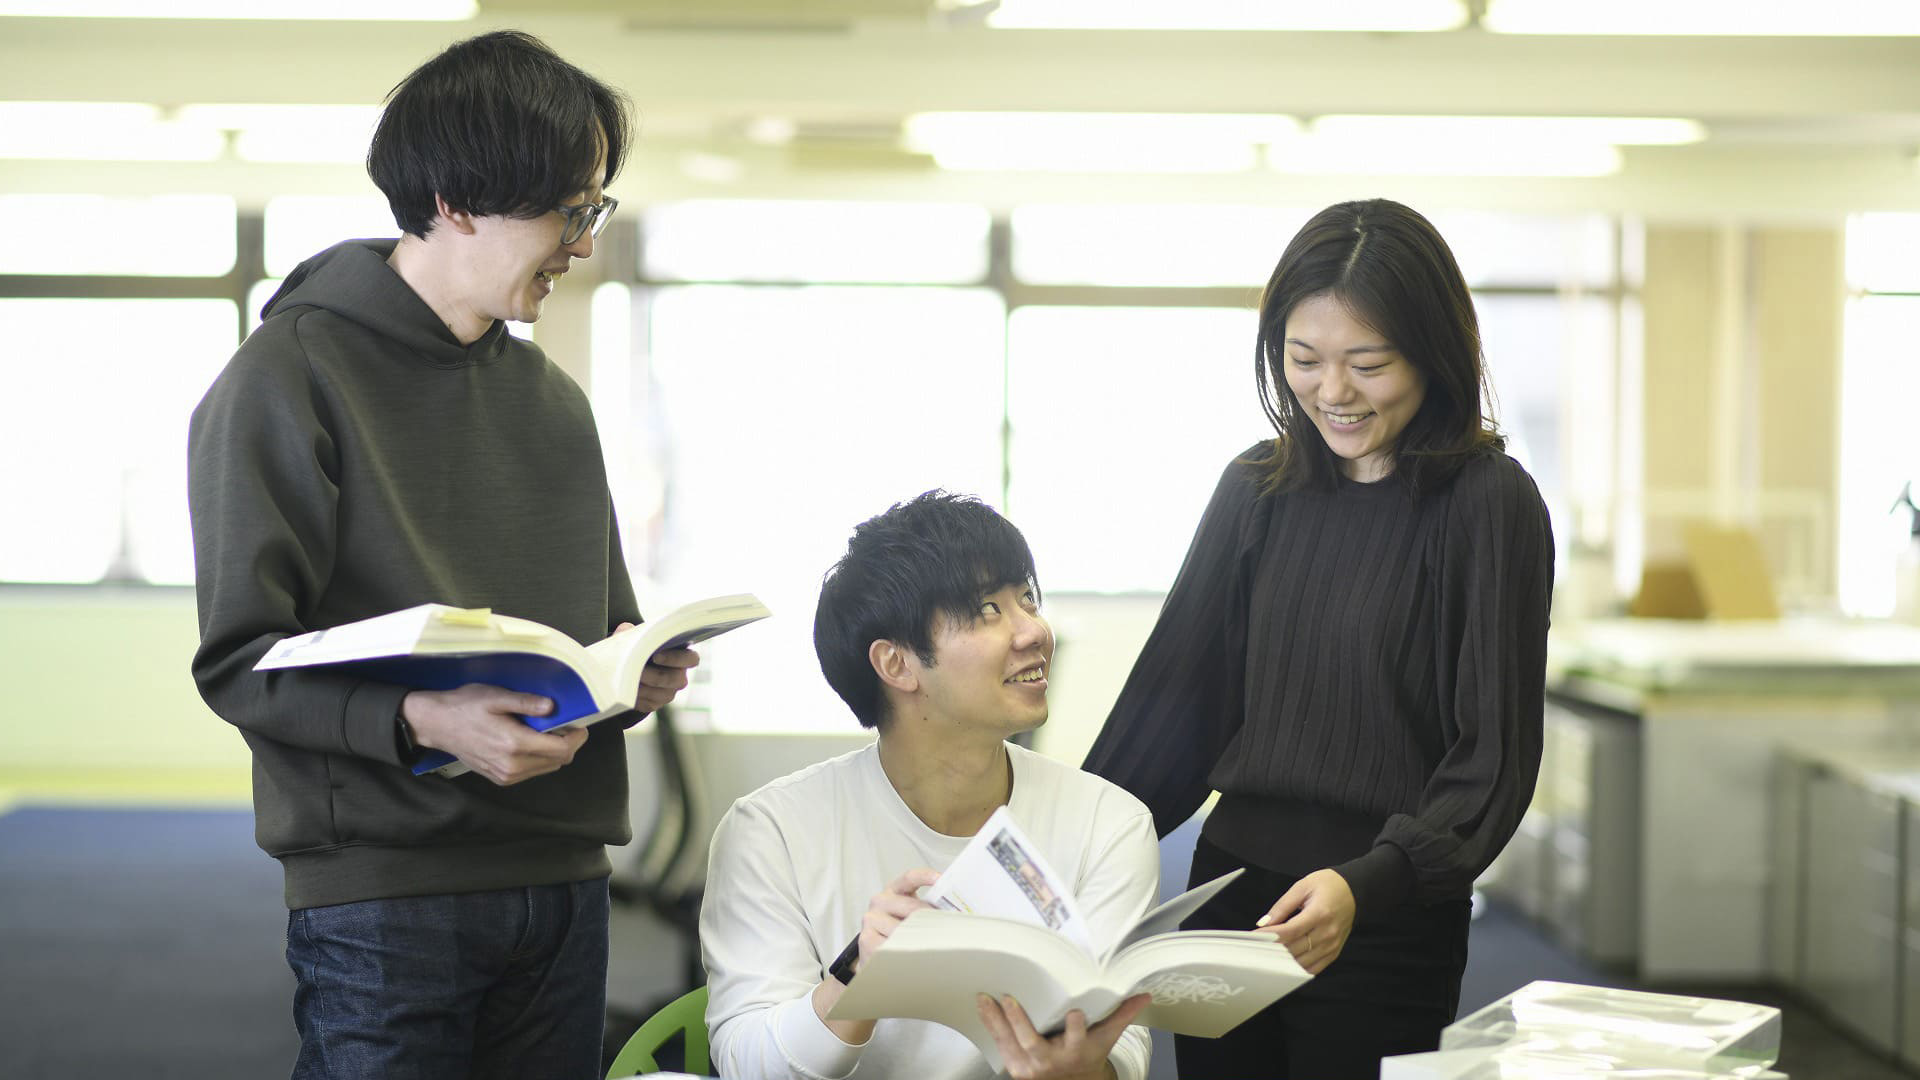
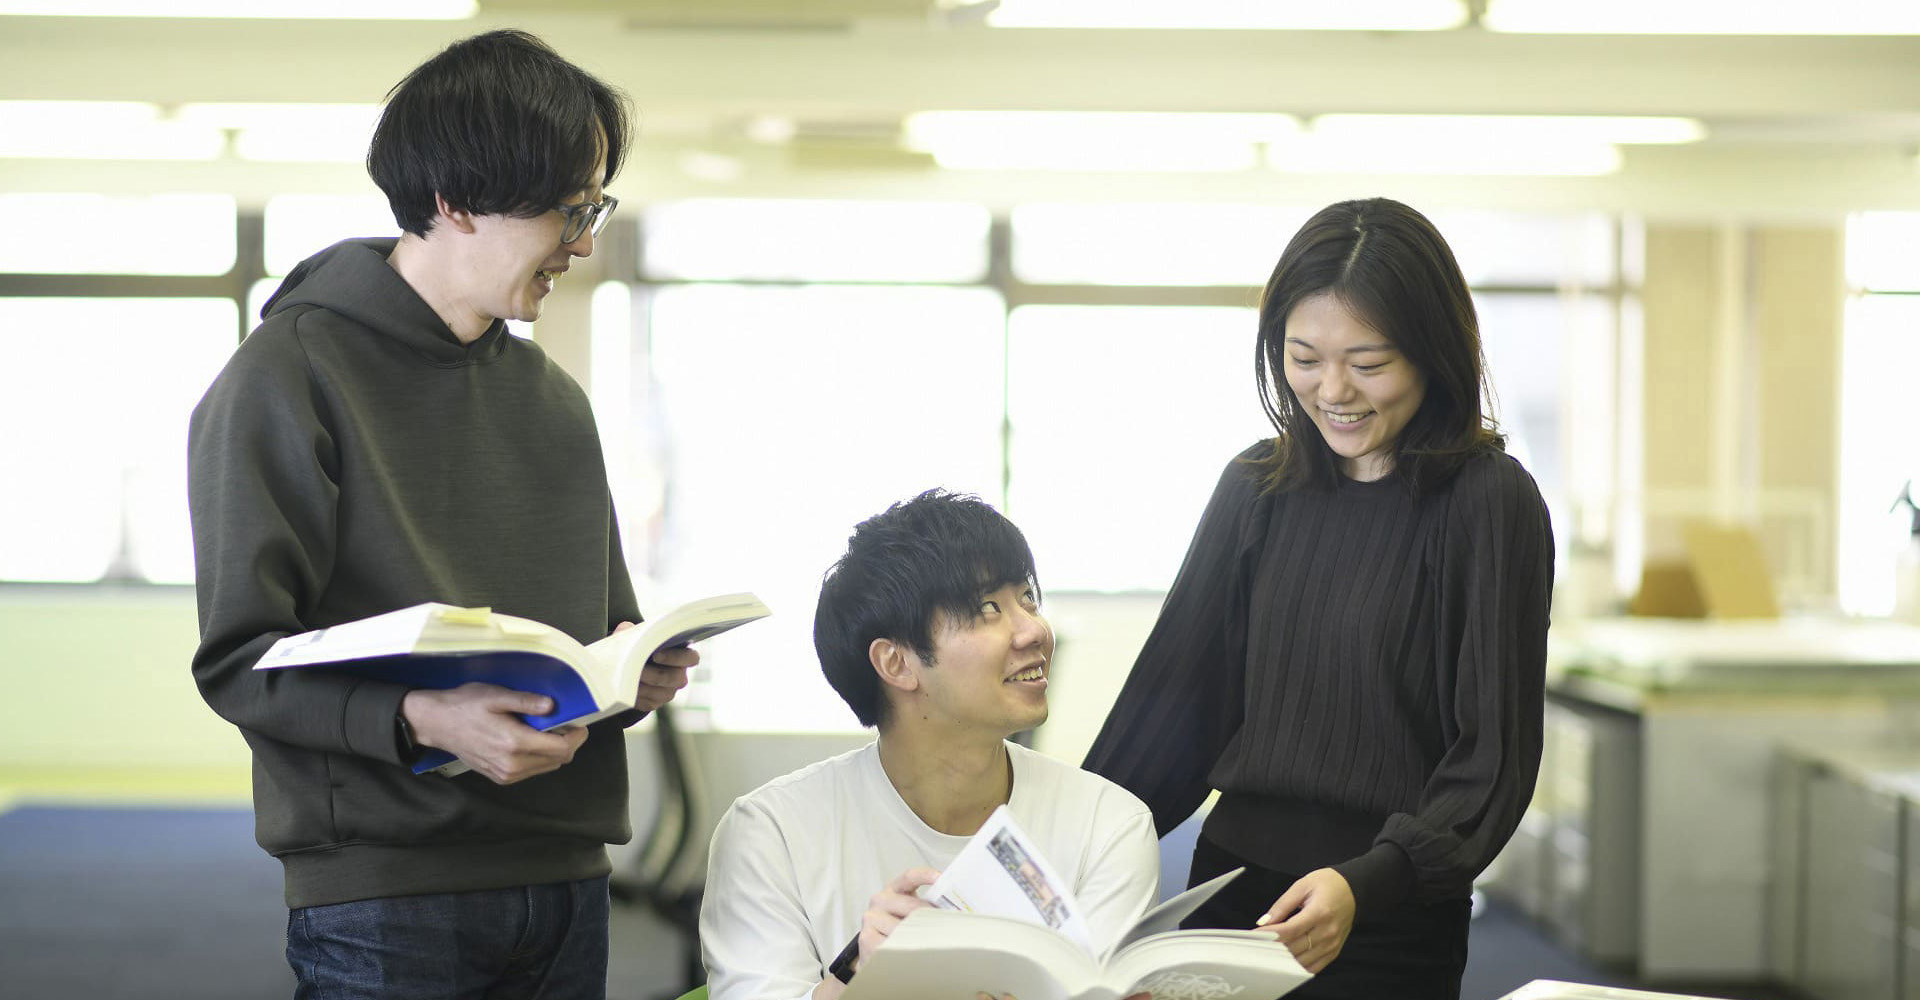
画像サイズ変更

diff --git a/pages/index.js b/pages/index.js
@@ -19,7 +19,7 @@ export default function Home(props) {
           <Image
             src={TOP[1].mein}
             width={1920}
-            height={1080}
+            height={1000}
             alt={TOP[1].alt}
             className=" w-[100%] h-auto "
           />
@@ -76,7 +76,7 @@ export default function Home(props) {
         <h1 className="text-[30px] text-center font-bold mt-[60px] mb-[30px] md:mb-[60px] mb:text-[34px] lg:my-[120px] lg:text-[40px]">
           {TOP[3].h1}
         </h1>
-        <Image src={TOP[3].image} width={1920} height={1080} alt={TOP[3].alt} />
+        <Image src={TOP[3].image} width={1920} height={1000} alt={TOP[3].alt} />
         <section>
           <h2 className="text-[20px] text-center text-black font-bold md:text-[24px] lg:text-[30px]">
             {TOP[3].h2}
@@ -281,7 +281,7 @@ export default function Home(props) {
             </p>
           </Link>
         </section>
-        <Image src={TOP[4].image} width={1920} height={1080} alt={TOP[4].alt} />
+        <Image src={TOP[4].image} width={1920} height={1000} alt={TOP[4].alt} />
         <section>
           <h2 className="text-[20px] lg:text-[30px] mb-[60px] text-center text-black font-bold  md:text-[24px]">
             {TOP[4].h2}
